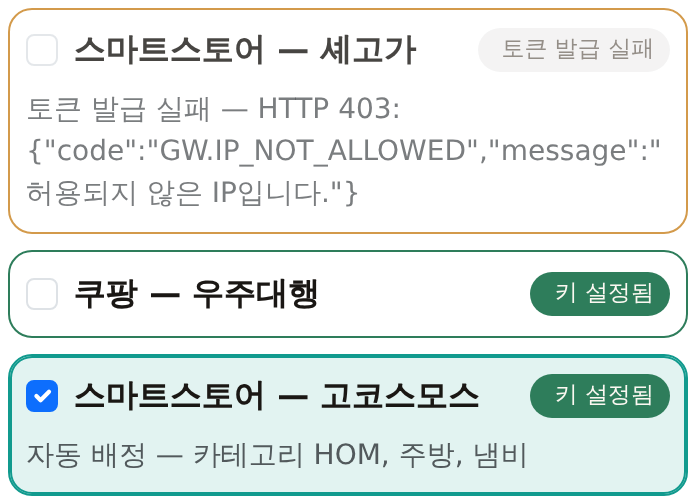
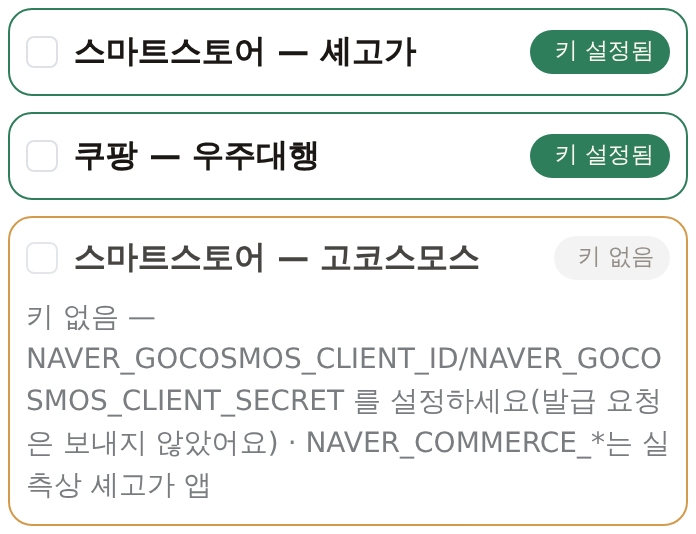
V 추가: 공용 NAVER_COMMERCE_* 키 주인 실측(판매자 주소록 ↔ 스토어 주소 ID) → 그 스토어로만 승격 · 다른 스토어는 자기 키 이름 안내
Claude-Session: https://claude.ai/code/session_01PxGVkp5f6YphwkqMwzi5ZE

diff --git a/src/seller_console/smartstore_routing.py b/src/seller_console/smartstore_routing.py
@@ -58,6 +58,7 @@ def reset_cache() -> None:
         _cache.update(at=0.0, rules=None)
         _counts.clear()
         _probes.clear()
+        _ident.update(at=0.0, out=None)
 
 
 def store_label(store: str) -> str:
@@ -68,6 +69,85 @@ def _live_on() -> bool:
     return str(os.getenv("SMARTSTORE_LIVE_PROBE", "1")).strip().lower() not in ("0", "false", "no", "off")
 
 
+_COMMON_KEY = "smartstore:common_key"
+_ident: dict = {"at": 0.0, "out": None}
+
+
+def _common_creds() -> tuple:
+    return (os.getenv("NAVER_COMMERCE_CLIENT_ID", "").strip(), os.getenv("NAVER_COMMERCE_CLIENT_SECRET", "").strip())
+
+
+def identify_common_key(*, force: bool = False) -> dict:
+    """V 추가(오너 2026-10-03): 공용 `NAVER_COMMERCE_*` 키가 **어느 스토어 앱**인지 API로 실측(10분 캐시).
+
+    그 키로 토큰을 받아 `GET /v1/seller/addressbooks-for-page`(판매자 주소록)를 읽고, 스토어별 정본 주소 ID
+    (출고지·반품지 — 업로더 `DEFAULT_ADDRESS_IDS`·env)가 응답에 들어 있는지 본다. **정확히 한 스토어만** 맞으면 그 스토어.
+    둘 다/아무것도 안 맞으면 정하지 않는다(지어내지 않음). `GET /v1/seller/channels` 원문 앞부분도 근거로 남긴다.
+    → `{state, store, evidence, channels_raw, at}` · state: identified · ambiguous · none · fail · no_key · off
+    """
+    now = time.monotonic()
+    with _lock:
+        if _ident["out"] is not None and not force and now - _ident["at"] < _COUNT_TTL:
+            return _ident["out"]
+    from datetime import datetime, timedelta, timezone
+    at = datetime.now(timezone(timedelta(hours=9))).strftime("%Y-%m-%d %H:%M:%S KST")
+    cid, sec = _common_creds()
+    out = {"state": "no_key", "store": "", "evidence": "NAVER_COMMERCE_CLIENT_ID/SECRET 없음", "channels_raw": "", "at": at}
+    if not _live_on():
+        out.update(state="off", evidence="실측 꺼짐 — SMARTSTORE_LIVE_PROBE=0")
+    elif cid and sec:
+        try:
+            out = dict(out, **_identify(cid, sec))
+        except Exception as exc:
+            out.update(state="fail", evidence=f"확인 중 오류: {type(exc).__name__}: {str(exc)[:160]}")
+    with _lock:
+        _ident.update(at=now, out=out)
+    if out["state"] not in ("off",):
+        logger.info("[스스 공용 키] %s — %s", out["state"], out["evidence"][:200])
+        try:
+            from src.db import image_translate_queue_pg as st
+            st.state_set(_COMMON_KEY, dict(out))
+        except Exception as exc:
+            logger.debug("[스스 공용 키] 기록 실패(계속): %s", exc)
+    return out
+
+
+def _identify(cid: str, sec: str) -> dict:
+    import json as _json
+    from src.uploaders.naver_uploader import NaverSmartStoreUploader
+    up = NaverSmartStoreUploader(account=None)
+    up.client_id, up.client_secret = cid, sec
+    if not up._get_access_token():
+        return {"state": "fail", "evidence": "토큰 발급 실패 — " + (up.token_error or "사유 원문 없음")}
+    book = up._api_request("GET", "/v1/seller/addressbooks-for-page?page=1")
+    if not isinstance(book, dict) or "error" in book:
+        return {"state": "fail", "evidence": "주소록 조회 실패 — " + str((book or {}).get("error") if isinstance(book, dict) else book)[:200]}
+    text = _json.dumps(book, ensure_ascii=False)
+    hits = {}
+    for st in STORES:
+        sup = NaverSmartStoreUploader(account=st)
+        ids = [str(i) for i in (sup.ship_address_id, sup.return_address_id) if str(i or "").strip()]
+        found = [i for i in ids if re.search(r"(?<!\d)" + re.escape(i) + r"(?!\d)", text)]
+        if found:
+            hits[st] = found
+    ch = up._api_request("GET", "/v1/seller/channels")
+    ch_raw = _json.dumps(ch, ensure_ascii=False)[:300] if ch is not None else ""
+    if len(hits) == 1:
+        st = next(iter(hits))
+        return {"state": "identified", "store": st, "channels_raw": ch_raw,
+                "evidence": f"주소록에 {store_label(st)} 주소 ID {', '.join(hits[st])} 있음"}
+    if len(hits) > 1:
+        return {"state": "ambiguous", "channels_raw": ch_raw,
+                "evidence": "주소록에 두 스토어 주소 ID가 다 있음 — " + "; ".join(f"{store_label(k)} {', '.join(v)}" for k, v in hits.items())}
+    return {"state": "none", "channels_raw": ch_raw, "evidence": "주소록에 두 스토어 주소 ID가 없음(앞부분: " + text[:120] + ")"}
+
+
+def promoted_store() -> str:
+    """캐시된 실측만 본다(네트워크 0) — 공용 키가 실측으로 확정된 스토어. 없으면 빈 값."""
+    out = _ident.get("out") or {}
+    return out.get("store", "") if out.get("state") == "identified" else ""
+
+
 def _issue(store: str) -> dict:
     """그 스토어 키로 토큰을 **실제로** 발급해 본다 → `{state, raw, count, count_raw}`. 토큰 값은 밖으로 안 낸다.
 
@@ -76,19 +156,34 @@ def _issue(store: str) -> dict:
     """
     if not _live_on():
         return {"state": "off", "raw": "실측 꺼짐 — SMARTSTORE_LIVE_PROBE=0이라 토큰을 발급해 보지 않았어요",
-                "count": None, "count_raw": ""}
+                "count": None, "count_raw": "", "key_src": ""}
     from src.uploaders.naver_uploader import NaverSmartStoreUploader
     from src.market_relay import route_text
     up = NaverSmartStoreUploader(account=store or None)
     via = route_text("smartstore", up._TOKEN_URL)
+    key_src = ""
+    _own = os.getenv(f"{up.ACCOUNT_PREFIXES.get(store, 'NAVER')}_CLIENT_ID", "").strip() if store else ""
+    if store and not _own and up.client_id and up.client_id == _common_creds()[0]:   # 업로더가 이미 승격한 경우
+        key_src = f"NAVER_COMMERCE_* (실측: {(identify_common_key().get('evidence') or '')})"
+    if store and not (up.client_id and up.client_secret):
+        ident = identify_common_key()
+        if ident.get("state") == "identified" and ident.get("store") == store:
+            up.client_id, up.client_secret = _common_creds()
+            key_src = f"NAVER_COMMERCE_* (실측: {ident['evidence']})"
+        else:
+            note = {"identified": f"NAVER_COMMERCE_*는 실측상 {store_label(ident.get('store', ''))} 앱",
+                    "ambiguous": "NAVER_COMMERCE_*가 어느 스토어 앱인지 정하지 못함", "none": "NAVER_COMMERCE_*는 두 스토어 주소록과 안 맞음",
+                    "fail": "NAVER_COMMERCE_* 실측 실패"}.get(ident.get("state"), "")
+            return {"state": "no_creds", "raw": "키 없음 — " + up._cred_env_hint() + " 를 설정하세요(발급 요청은 보내지 않았어요)"
+                    + (f" · {note}" if note else ""), "count": None, "count_raw": "", "via": via, "env": _env_names(up), "key_src": ""}
     if not (up.client_id and up.client_secret):
         return {"state": "no_creds", "raw": "키 없음 — " + up._cred_env_hint() + " 를 설정하세요(발급 요청은 보내지 않았어요)",
-                "count": None, "count_raw": "", "via": via, "env": _env_names(up)}
+                "count": None, "count_raw": "", "via": via, "env": _env_names(up), "key_src": ""}
     if not up._get_access_token():
         return {"state": "fail", "raw": up.token_error or "사유 원문 없음", "count": None, "count_raw": "",
-                "via": via, "env": _env_names(up)}
+                "via": via, "env": _env_names(up), "key_src": key_src}
     n = up.count_products(rules().get("limit_statuses") or None)
-    return {"state": "ok", "raw": "토큰 발급 OK", "count": n, "via": via, "env": _env_names(up),
+    return {"state": "ok", "raw": "토큰 발급 OK", "count": n, "via": via, "env": _env_names(up), "key_src": key_src,
             "count_raw": "" if n is not None else (getattr(up, "count_error", "") or "응답에 totalElements 없음")}
 
 
@@ -121,7 +216,7 @@ def probe(store: str = "", *, force: bool = False) -> dict:
         try:
             from src.db import image_translate_queue_pg as st
             snap = st.state_get(_PROBE_KEY) or {}
-            snap[store or "_default"] = {k: out.get(k) for k in ("label", "state", "raw", "count", "count_raw", "at", "via")}
+            snap[store or "_default"] = {k: out.get(k) for k in ("label", "state", "raw", "count", "count_raw", "at", "via", "key_src")}
             st.state_set(_PROBE_KEY, snap)
         except Exception as exc:
             logger.debug("[스스 실측] 기록 실패(계속): %s", exc)
@@ -131,6 +226,7 @@ def probe(store: str = "", *, force: bool = False) -> dict:
 def probe_all(*, force: bool = False) -> list:
     """두 스토어를 나란히 확인(화면이 두 번 기다리지 않게)."""
     from concurrent.futures import ThreadPoolExecutor
+    identify_common_key(force=force)          # 공용 키 주인을 먼저 정해 두 스토어가 같은 판정을 본다
     with ThreadPoolExecutor(max_workers=len(STORES)) as ex:
         return list(ex.map(lambda st: probe(st, force=force), STORES))
 

diff --git a/tests/test_v_smartstore_probe.py b/tests/test_v_smartstore_probe.py
@@ -20,6 +20,8 @@ _TOKEN = "tok-SECRET-VALUE-123"
 def _fresh(monkeypatch):
     monkeypatch.setenv("SMARTSTORE_LIVE_PROBE", "1")
     for k in ("NAVER_CLIENT_ID", "NAVER_CLIENT_SECRET", "NAVER_COMMERCE_CLIENT_ID", "NAVER_COMMERCE_CLIENT_SECRET",
+              "NAVER_CHEZGOGA_SHIP_ADDRESS_ID", "NAVER_CHEZGOGA_RETURN_ADDRESS_ID",
+              "NAVER_GOCOSMOS_SHIP_ADDRESS_ID", "NAVER_GOCOSMOS_RETURN_ADDRESS_ID",
               "NAVER_CHEZGOGA_CLIENT_ID", "NAVER_CHEZGOGA_CLIENT_SECRET", "NAVER_GOCOSMOS_CLIENT_ID", "NAVER_GOCOSMOS_CLIENT_SECRET"):
         monkeypatch.delenv(k, raising=False)
     SR.reset_cache()
@@ -187,7 +189,8 @@ def test_store_reads_only_its_own_key_names(monkeypatch):
     assert (up.client_id, up.client_secret) == ("", "")
     calls = _naver(monkeypatch, ok_stores=("chezgoga",))
     assert SR.status_text("chezgoga").startswith("키 없음 — NAVER_CHEZGOGA_CLIENT_ID/NAVER_CHEZGOGA_CLIENT_SECRET 를 설정")
-    assert "NAVER_COMMERCE" not in SR.status_text("chezgoga") and not calls
+    assert "(또는 공용" not in SR.status_text("chezgoga")
+    assert not any(c[0] == "token" and c[1] == "chezgoga" for c in calls)
     _keys(monkeypatch, "chezgoga")
     assert N(account="chezgoga").client_id == "chezgoga-id"
 
@@ -209,3 +212,64 @@ def test_matrix_and_health_name_the_same_keys(monkeypatch):
     for st in ("chezgoga", "gocosmos"):
         assert set(health[f"smartstore_{st}"]["required_env"]) <= set(reg[f"naver_commerce_{st}"])
         assert "MARKET_API_RELAY_URL" in reg[f"naver_commerce_{st}"]
+
+
+# ── V 추가(오너 2026-10-03 15:02): 공용 NAVER_COMMERCE_* = 어느 스토어 앱? → 실측 후 그 스토어로 승격 ─────────
+
+def _common_naver(monkeypatch, *, book, count=1000):
+    """공용 키(client_id='common-id')만 토큰이 나온다. 주소록 응답은 `book`."""
+    calls = []
+
+    def tok(self):
+        calls.append(("token", self.account, self.client_id))
+        if self.client_id == "common-id":
+            return _TOKEN
+        self.token_error = "HTTP 401: invalid_client"
+        return ""
+
+    def api(self, m, p, data=None):
+        calls.append((m, p, self.account))
+        if p.startswith("/v1/seller/addressbooks-for-page"):
+            return book
+        if p == "/v1/seller/channels":
+            return [{"channelNo": 1, "name": "셰고가 스토어"}]
+        return {"totalElements": count}
+    monkeypatch.setattr(N, "_get_access_token", tok)
+    monkeypatch.setattr(N, "_api_request", api)
+    monkeypatch.setenv("NAVER_COMMERCE_CLIENT_ID", "common-id")
+    monkeypatch.setenv("NAVER_COMMERCE_CLIENT_SECRET", "$2a$10$commonsecretsalt00000000")
+    return calls
+
+
+def test_common_key_owner_is_measured_from_the_address_book_and_promoted(monkeypatch):
+    calls = _common_naver(monkeypatch, book={"contents": [{"addressBookNo": 107519271}, {"addressBookNo": 107519270}]})
+    ident = SR.identify_common_key()
+    assert ident["state"] == "identified" and ident["store"] == "chezgoga"
+    assert "107519271" in ident["evidence"] and "셰고가 스토어" in ident["channels_raw"]
+    rows = {p["store"]: p for p in SR.probe_all()}
+    cz, gc = rows["chezgoga"], rows["gocosmos"]
+    assert cz["ok"] and cz["count"] == 1000 and cz["key_src"].startswith("NAVER_COMMERCE_* (실측: 주소록에 셰고가 주소 ID")
+    assert gc["state"] == "no_creds"
+    assert SR.status_text("gocosmos") == ("키 없음 — NAVER_GOCOSMOS_CLIENT_ID/NAVER_GOCOSMOS_CLIENT_SECRET 를 설정하세요"
+                                          "(발급 요청은 보내지 않았어요) · NAVER_COMMERCE_*는 실측상 셰고가 앱")
+    assert ("POST", "/v1/products/search", "chezgoga") in calls and ("POST", "/v1/products/search", "gocosmos") not in calls
+    # 실제 업로드 경로도 같은 키(캐시만 — 네트워크 0)
+    n = len(calls)
+    assert N(account="chezgoga").client_id == "common-id" and N(account="gocosmos").client_id == ""
+    assert len(calls) == n
+
+
+def test_no_promotion_when_ambiguous_or_unmatched(monkeypatch):
+    _common_naver(monkeypatch, book={"contents": [{"addressBookNo": 107519271}, {"addressBookNo": 107987297}]})
+    assert SR.identify_common_key()["state"] == "ambiguous"
+    assert not SR.approved("chezgoga") and not SR.approved("gocosmos") and SR.promoted_store() == ""
+    SR.reset_cache()
+    _common_naver(monkeypatch, book={"contents": [{"addressBookNo": 1075192710}]})          # 자릿수 겹침은 일치 아님
+    assert SR.identify_common_key()["state"] == "none" and not SR.approved("chezgoga")
+
+
+def test_own_store_keys_win_over_the_common_key(monkeypatch):
+    calls = _common_naver(monkeypatch, book={"contents": [{"addressBookNo": 107519271}]})
+    _keys(monkeypatch, "chezgoga")
+    SR.probe("chezgoga")
+    assert ("token", "chezgoga", "chezgoga-id") in calls and not any(c[0] == "token" and c[2] == "common-id" for c in calls)

diff --git a/src/dashboard/admin_views.py b/src/dashboard/admin_views.py
@@ -1243,7 +1243,8 @@ def _build_smartstore_probe(force: bool = False) -> dict:
     try:
         from src.seller_console import smartstore_routing as sr
         limit = int(sr.rules().get("limit") or 1000)
-        return {"available": True, "limit": limit, "rows": sr.probe_all(force=force)}
+        rows = sr.probe_all(force=force)
+        return {"available": True, "limit": limit, "rows": rows, "common": sr.identify_common_key()}
     except Exception as exc:
         logger.warning("스마트스토어 실측 블록 실패: %s", exc)
         return {"available": False, "error": f"{type(exc).__name__}: {str(exc)[:200]}"}
@@ -2801,9 +2802,14 @@ _DIAGNOSTICS_TEMPLATE = """
           </div>
           {% if not r.ok %}<div class="small mt-1" style="word-break:break-word" data-role="ss-probe-raw"><code>{{ r.raw }}</code></div>{% endif %}
           {% if r.ok and r.count is none %}<div class="small mt-1" style="word-break:break-word"><code>{{ r.count_raw }}</code></div>{% endif %}
+          {% if r.key_src %}<div class="small mt-1" data-role="ss-probe-key">키: {{ r.key_src }}</div>{% endif %}
           <div class="small text-muted mt-1" data-role="ss-probe-via">경로: {{ r.via or '—' }} · 확인 {{ r.at }}</div>
         </div>
         {% endfor %}
+        {% set cm = smartstore_probe.common %}
+        <div class="small mt-2" data-role="ss-common-key">공용 키(NAVER_COMMERCE_*) 주인:
+          <strong>{{ {'identified': cm.store and (cm.store == 'chezgoga' and '셰고가' or '고코스모스'), 'ambiguous': '정하지 못함', 'none': '두 스토어와 안 맞음', 'fail': '실측 실패', 'no_key': '키 없음', 'off': '실측 꺼짐'}.get(cm.state, cm.state) }}</strong>
+          <span class="text-muted" style="word-break:break-word">— {{ cm.evidence }}{% if cm.channels_raw %} · channels: <code>{{ cm.channels_raw }}</code>{% endif %}</span></div>
         <div class="text-muted small">토큰 = 그 스토어 키로 커머스API 토큰을 실제로 발급해 본 결과(10분마다 다시). 상품 수 = 판매중·판매대기·품절 합계(products/search).</div>
         {% else %}
         <div class="text-muted small">확인하지 못했어요: <code>{{ smartstore_probe.error }}</code></div>

diff --git a/src/uploaders/naver_uploader.py b/src/uploaders/naver_uploader.py
@@ -221,6 +221,15 @@ class NaverSmartStoreUploader(BaseUploader):
             #   떨어져, 두 스토어가 한 앱 키를 쓰거나 로그인 키로 토큰을 청하는 일이 조용히 났다.
             self.client_id = os.getenv(f'{_pfx}_CLIENT_ID', '').strip()
             self.client_secret = os.getenv(f'{_pfx}_CLIENT_SECRET', '').strip()
+            if not (self.client_id and self.client_secret):
+                # V 추가: 공용 NAVER_COMMERCE_* 가 **실측으로 이 스토어 앱**이라고 확정됐을 때만 승격(캐시만 본다 — 네트워크 0).
+                try:
+                    from src.seller_console.smartstore_routing import promoted_store
+                    if promoted_store() == self.account:
+                        self.client_id = os.getenv('NAVER_COMMERCE_CLIENT_ID', '').strip()
+                        self.client_secret = os.getenv('NAVER_COMMERCE_CLIENT_SECRET', '').strip()
+                except Exception:
+                    pass
         else:
             self.client_id = self._acct_env('NAVER_CLIENT_ID') or os.getenv('NAVER_COMMERCE_CLIENT_ID', '')
             self.client_secret = (self._acct_env('NAVER_CLIENT_SECRET')
